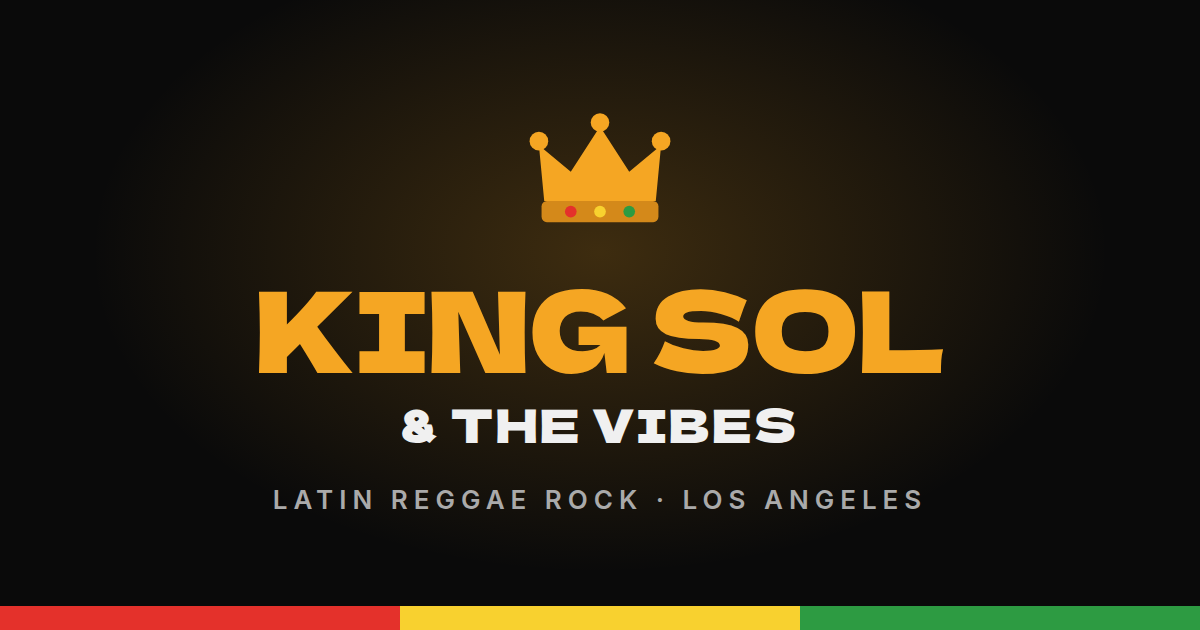
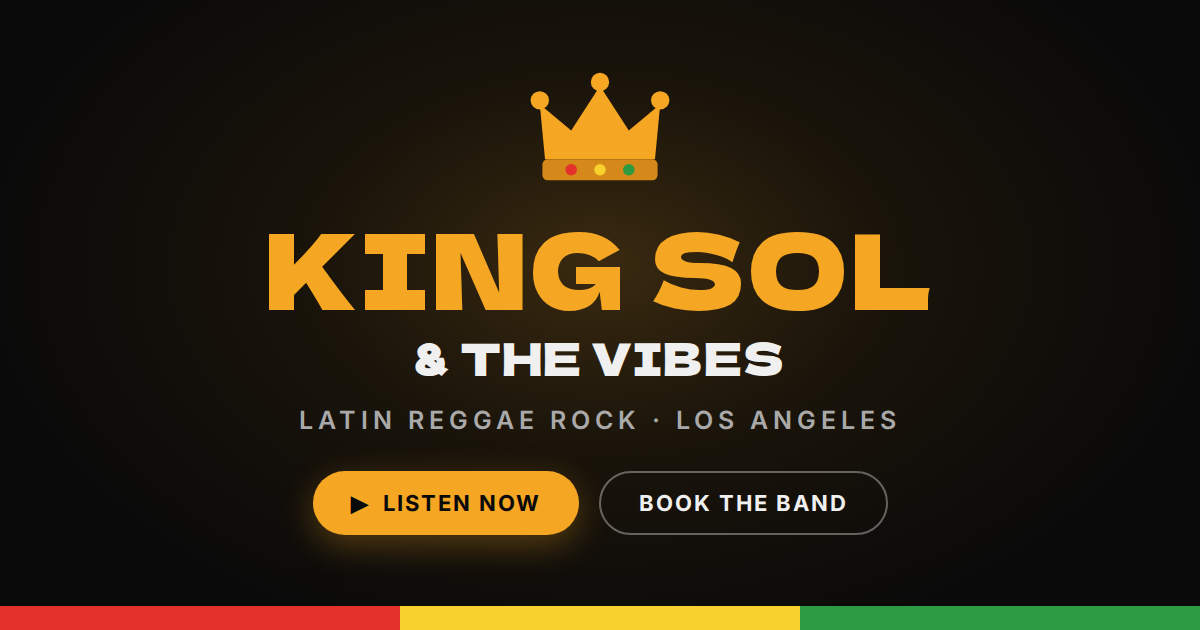
Shorten home page title and add a call-to-action to the social image
- The home title rendered as 61 characters in the page source because
  "&" is escaped to "&amp;", which SEO checkers count against the
  ~60-character limit. "Latin Reggae Rock, Los Angeles" brings it to
  53 characters (57 in the source) and keeps both keywords.
- Regenerate public/og.png with "Listen Now" and "Book the Band"
  buttons styled like the site's own, so link previews carry a clear
  call-to-action. The alt text now mentions them.

Claude-Session: https://claude.ai/code/session_019JjbPUo6k7YL9o3FvzU5b3

Changed region(s): [[0.2158, 0.1206, 0.8017, 0.6032], [0.2158, 0.6333, 0.7708, 0.9048], [0.5242, 0.8444, 0.7092, 0.8746]]

diff --git a/src/app/site.ts b/src/app/site.ts
@@ -21,7 +21,7 @@ export const baseOpenGraph: NonNullable<Metadata["openGraph"]> = {
       url: "/og.png",
       width: 1200,
       height: 630,
-      alt: "King Sol & The Vibes — Latin Reggae Rock from Los Angeles",
+      alt: "King Sol & The Vibes — Latin Reggae Rock from Los Angeles. Listen now or book the band.",
     },
   ],
 };

diff --git a/src/app/layout.tsx b/src/app/layout.tsx
@@ -9,7 +9,7 @@ const description =
 export const metadata: Metadata = {
   metadataBase: siteUrl,
   title: {
-    default: "King Sol & The Vibes | Latin Reggae Rock from Los Angeles",
+    default: "King Sol & The Vibes | Latin Reggae Rock, Los Angeles",
     template: "%s | King Sol & The Vibes",
   },
   description,
